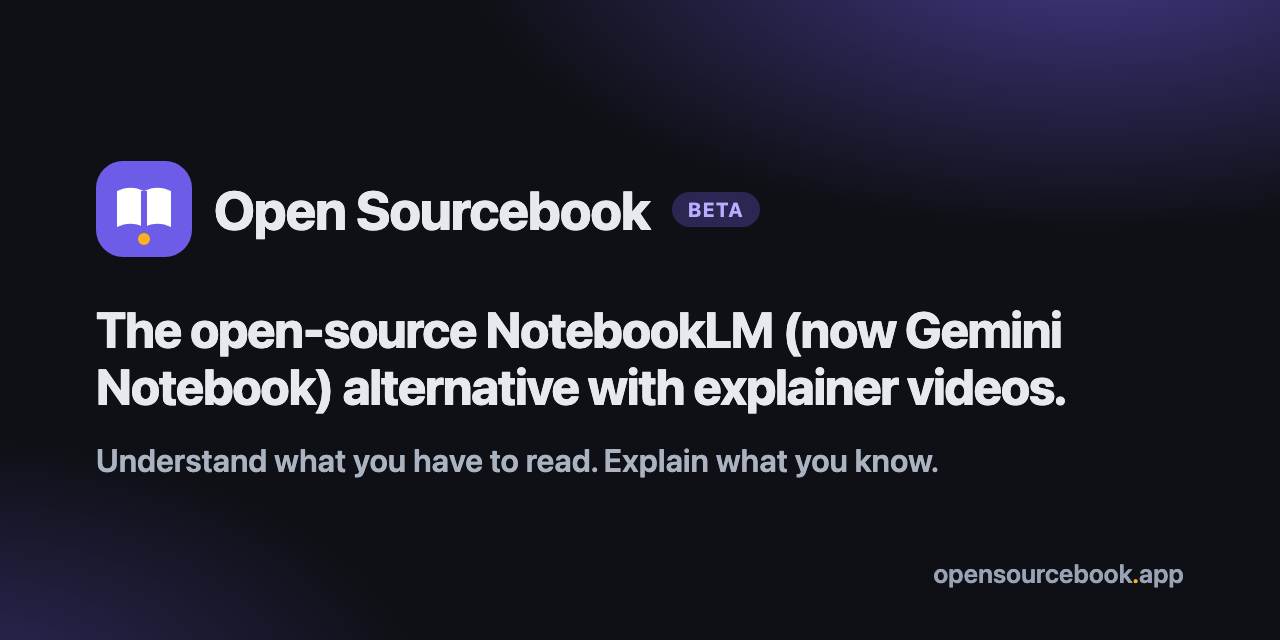
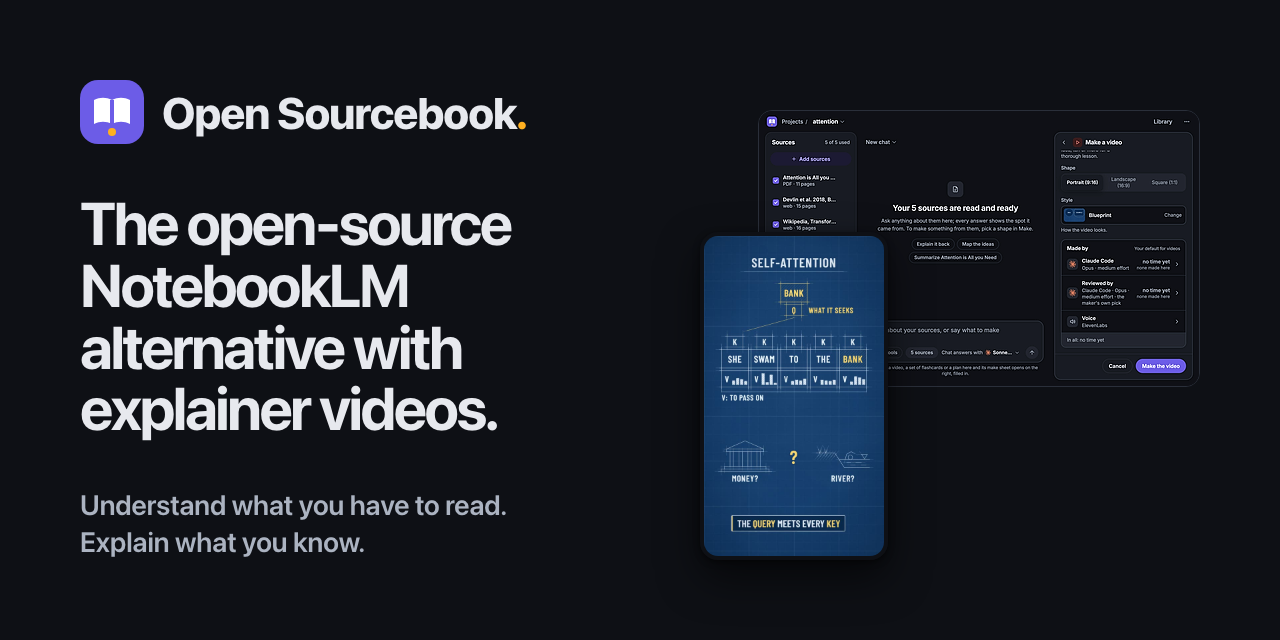
Site: the social preview shows the name, the headline and a frame from a made video in front of the real app.

diff --git a/install/site/og-image.html b/install/site/og-image.html
@@ -1,5 +1,9 @@
 <!doctype html>
 <!-- The source of og.png (1280x640), the picture shown when the site or the repository is shared.
+     Everything that matters stays 80px from every edge. On the right, as on the page: a real screen
+     of the app, the whole window shrunk once to exactly 440x275 so it stays sharp (media/og-app.png),
+     with a real frame from a video it made in front of it
+     (media/clip-blueprint.jpg, the same clip the page plays).
      To make it again, from the repo root, with Chrome:
        "/Applications/Google Chrome.app/Contents/MacOS/Google Chrome" --headless --disable-gpu --hide-scrollbars \
          --force-device-scale-factor=1 --window-size=1280,640 \
@@ -11,35 +15,50 @@
 <meta name="robots" content="noindex">
 <title>Open Sourcebook social image</title>
 <style>
+/* The app's own dark tokens (web/src/design/tokens.css). */
 html, body { margin: 0; width: 1280px; height: 640px; overflow: hidden; }
 body {
-  background:
-    radial-gradient(900px 420px at 85% -10%, rgb(108 92 231 / .55), transparent 70%),
-    radial-gradient(700px 380px at -5% 110%, rgb(108 92 231 / .35), transparent 70%),
-    #0E1015;
+  position: relative;
+  background: #0E1015;
   color: #E7E9EE;
-  font-family: system-ui, -apple-system, "Segoe UI", Roboto, "Helvetica Neue", Arial, sans-serif;
-  display: flex; flex-direction: column; justify-content: center;
-  padding: 0 96px; box-sizing: border-box;
+  font-family: "Inter Variable", Inter, -apple-system, system-ui, "Segoe UI", Roboto, sans-serif;
+  -webkit-font-smoothing: antialiased;
 }
-.brand { display: flex; align-items: center; gap: 22px; }
-.brand svg { width: 96px; height: 96px; }
-.name { font-size: 54px; font-weight: 750; letter-spacing: -.02em; }
-.beta { font-size: 20px; font-weight: 700; letter-spacing: .08em; text-transform: uppercase; color: #B7AEFF; background: #2B2752; border-radius: 999px; padding: 6px 16px; }
-h1 { margin: 44px 0 0; font-size: 50px; line-height: 1.14; letter-spacing: -.025em; font-weight: 750; max-width: 1060px; }
-p { margin: 26px 0 0; font-size: 32px; font-weight: 600; color: #ABB3C1; }
-.url { position: absolute; right: 96px; bottom: 52px; font-size: 26px; color: #9AA3B5; font-weight: 600; }
-.dot { color: #FFB020; }
+.words {
+  position: absolute; left: 80px; top: 80px; bottom: 80px; width: 580px;
+  display: flex; flex-direction: column; justify-content: space-between;
+}
+.brand { display: flex; align-items: center; gap: 18px; }
+.brand svg { width: 64px; height: 64px; }
+.name { font-size: 44px; line-height: 1; font-weight: 800; letter-spacing: -0.03em; }
+.name span { color: #FFB020; }
+h1 { margin: 0; font-size: 60px; line-height: 1.03; font-weight: 700; letter-spacing: -0.045em; }
+p { margin: 0; font-size: 28px; line-height: 1.3; font-weight: 600; letter-spacing: -0.015em; color: #ABB3C1; }
+
+/* The app window, with the clip in front of its lower left corner */
+.window {
+  position: absolute; right: 80px; top: 110px; width: 440px; height: 275px;
+  border-radius: 14px; overflow: hidden; border: 1px solid #2A2F3A; background: #0E1015;
+}
+.window img { display: block; width: 100%; height: 100%; object-fit: cover; object-position: top left; }
+.clip {
+  position: absolute; left: 700px; bottom: 80px; width: 180px; height: 320px;
+  border-radius: 18px; overflow: hidden;
+  border: 4px solid #0E1015; box-shadow: 0 2px 6px rgb(0 0 0 / .5), 0 18px 40px rgb(0 0 0 / .55);
+}
+.clip img { display: block; width: 100%; height: 100%; object-fit: cover; }
 </style>
 </head>
 <body>
-  <div class="brand">
-    <svg viewBox="0 0 32 32" aria-hidden="true"><rect width="32" height="32" rx="9" fill="#6C5CE7"/><path d="M7 22V10c3-1.5 6-1.5 9 0 3-1.5 6-1.5 9 0v12c-3-1.5-6-1.5-9 0-3-1.5-6-1.5-9 0z" fill="#FFFFFF"/><path d="M16 10v12" stroke="#6C5CE7" stroke-width="2"/><circle cx="16" cy="26" r="2" fill="#FFB020"/></svg>
-    <span class="name">Open Sourcebook</span>
-    <span class="beta">Beta</span>
+  <div class="words">
+    <div class="brand">
+      <svg viewBox="0 0 32 32" aria-hidden="true"><rect width="32" height="32" rx="9" fill="#6C5CE7"/><path d="M7 22V10c3-1.5 6-1.5 9 0 3-1.5 6-1.5 9 0v12c-3-1.5-6-1.5-9 0-3-1.5-6-1.5-9 0z" fill="#FFFFFF"/><path d="M16 10v12" stroke="#6C5CE7" stroke-width="2"/><circle cx="16" cy="26" r="2" fill="#FFB020"/></svg>
+      <span class="name">Open Sourcebook<span>.</span></span>
+    </div>
+    <h1>The open-source NotebookLM alternative with explainer videos.</h1>
+    <p>Understand what you have to read.<br>Explain what you know.</p>
   </div>
-  <h1>The open-source NotebookLM (now Gemini Notebook) alternative with explainer videos.</h1>
-  <p>Understand what you have to read. Explain what you know.</p>
-  <div class="url">opensourcebook<span class="dot">.</span>app</div>
+  <div class="window"><img src="media/og-app.png" alt=""></div>
+  <div class="clip"><img src="media/clip-blueprint.jpg" alt=""></div>
 </body>
 </html>
